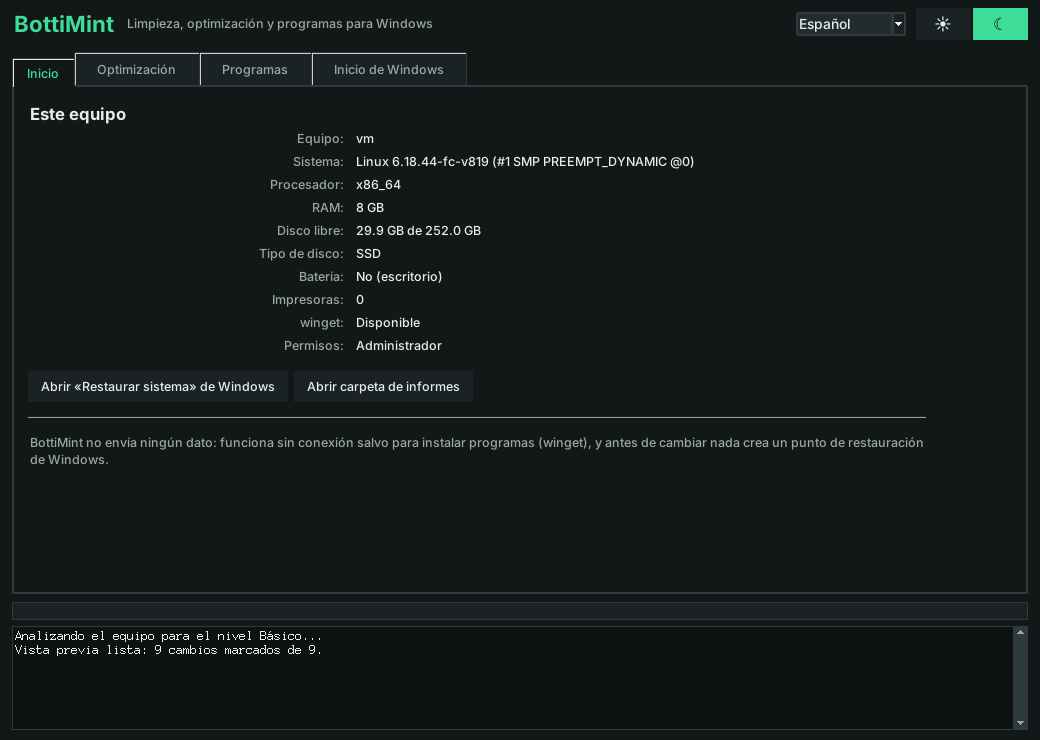
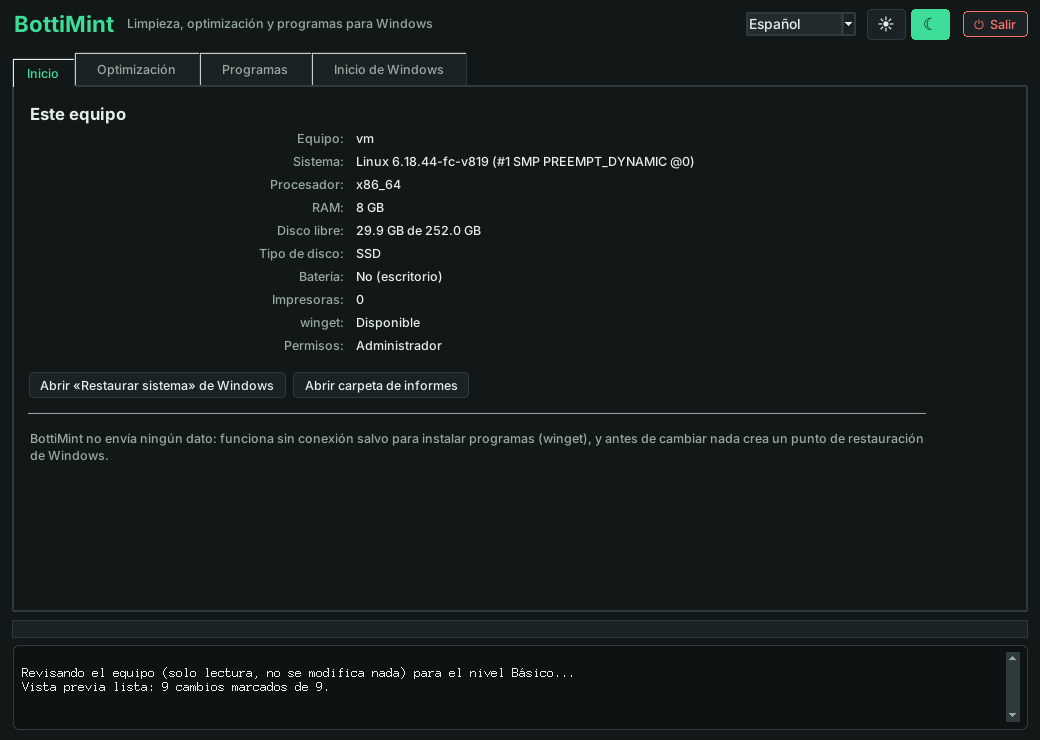
v1.1.1: boton de aplicar sobre la lista, capturas nuevas y limpieza del repositorio

diff --git a/bottimint/__init__.py b/bottimint/__init__.py
@@ -1,2 +1,2 @@
 """BottiMint: limpieza, optimización reversible por niveles e instalación de software para Windows 10/11."""
-__version__ = "1.1.0"
+__version__ = "1.1.1"

diff --git a/CHANGELOG.md b/CHANGELOG.md
@@ -2,6 +2,13 @@
 
 Formato basado en [Keep a Changelog](https://keepachangelog.com/es-ES/1.1.0/). Versionado semántico.
 
+## [1.1.1] - 2026-11-24
+
+### Cambiado
+- **Optimización:** el botón «Aplicar cambios marcados (N)» pasó sobre la lista de casillas (siempre visible), con contador de cambios marcados; se desactiva si no hay nada marcado. Elegir un nivel solo muestra la vista previa (lectura) y nunca aplica nada; el mensaje del registro lo aclara.
+- Paneles y registro más compactos para que todo entre en pantallas chicas.
+- Capturas del README actualizadas; se quitaron del repositorio archivos internos de publicación.
+
 ## [1.1.0] - 2026-11-24
 
 ### Cambiado
@@ -16,7 +23,6 @@ Formato basado en [Keep a Changelog](https://keepachangelog.com/es-ES/1.1.0/). V
 
 - **Botón «Salir»** (⏻) con confirmación; avisa de forma especial si hay una tarea en curso. También confirma al cerrar con la X.
 - **Interfaz redondeada**: botones, selectores de nivel, tarjetas y diálogos con esquinas redondeadas (`bottimint/widgets.py`). Diálogos propios con tema claro/oscuro.
-- **Optimización:** el botón «Aplicar cambios marcados (N)» ahora está sobre la lista de casillas (siempre visible), con contador de cambios marcados; se desactiva si no hay nada marcado. Elegir un nivel solo muestra la vista previa (lectura), nunca aplica.
 - Documento `docs/AUDITORIA_SEGURIDAD.md` y guía de publicación actualizada.
 
 ### Seguridad

diff --git a/README.md b/README.md
@@ -1,6 +1,6 @@
 # BottiMint
 
-Herramienta para **Windows 10 / 11** para todo el mundo: limpia, optimiza por niveles (todo **reversible**) e instala el software que necesita cada cliente, desde una sola interfaz.
+Herramienta para **Windows 10 / 11** para todo el mundo: limpia, optimiza por niveles (todo **reversible**) e instala el software que necesitás, desde una sola interfaz.
 
 ![Pestaña de optimización](docs/img/optimizacion.png)
 
@@ -107,7 +107,7 @@ python -m unittest discover -s tests -t .        # tests (la interfaz se prueba 
 python scripts/generar_docs.py                   # regenera docs/NIVELES.md y docs/PROGRAMAS.md
 scripts\Compilar_exe.bat                         # genera dist\BottiMint.exe (Windows)
 ```
-Sin dependencias externas para ejecutar (solo la biblioteca estándar). Publicación en GitHub y releases: [docs/PUBLICAR_EN_GITHUB.md](docs/PUBLICAR_EN_GITHUB.md).
+Sin dependencias externas para ejecutar (solo la biblioteca estándar).
 
 ## Hoja de ruta
 
